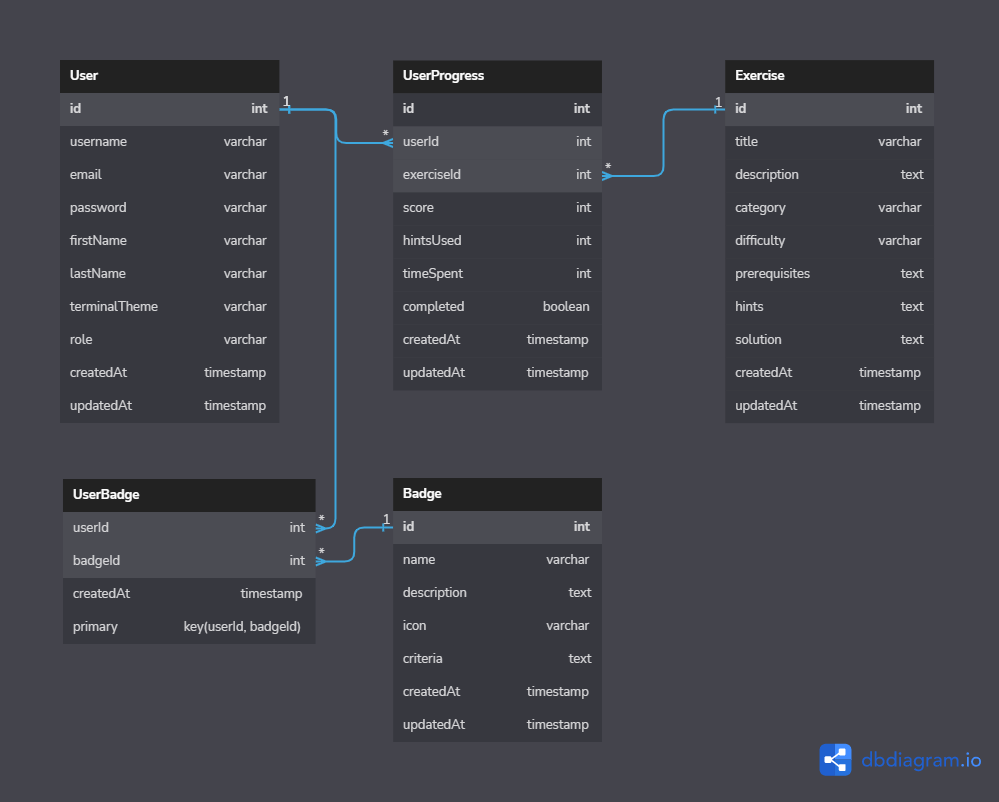
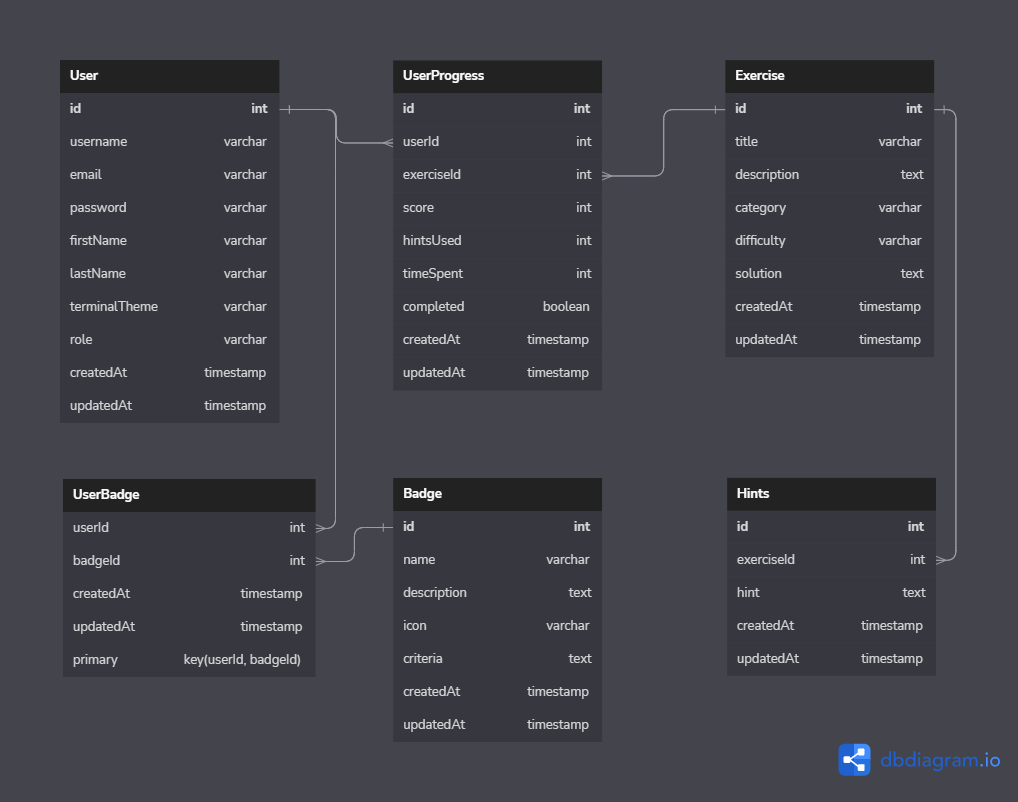
Added Hints relation and updated all documentation accordingly.

diff --git a/documentation/Components_And_Data_Models.md b/documentation/Components_And_Data_Models.md
@@ -30,8 +30,6 @@ Exercises are the interactive challenges that users complete to improve their co
 - `description`: A brief explanation of the exercise's purpose and objectives
 - `category`: The command-line skill category to which the exercise belongs (e.g., navigation, file management, scripting)
 - `difficulty`: The difficulty level of the exercise (e.g., beginner, intermediate, advanced)
-- `prerequisites`: A list of prerequisite exercises or concepts that the user should complete before attempting the exercise
-- `hints`: A list of hints or suggestions to help users if they get stuck on the exercise
 - `solution`: The correct command or sequence of commands to complete the exercise
 - `createdAt`: Timestamp indicating when the exercise was created
 - `updatedAt`: Timestamp indicating when the exercise was last updated
@@ -61,6 +59,16 @@ Badges are awarded to users upon completing specific tasks or reaching milestone
 - `criteria`: A list of conditions or milestones that must be met for the user to earn the badge
 - `createdAt`: Timestamp indicating when the badge was created
 - `updatedAt`: Timestamp indicating when the badge was last updated
+
+### 4.1.5 Hints
+
+Hints are suggestions to help users when they are stuck on an exercise. The Hint component will have the following attributes:
+
+- `id`: Unique identifier for the hint
+- `exerciseId`: Unique identifier of the associated exercise
+- `hint`: The text content of the hint
+- `createdAt`: Timestamp indicating when the hint was created
+- `updatedAt`: Timestamp indicating when the hint was last updated
 
 ### 4.2 Data Models and Relationships
 

diff --git a/documentation/Database_Schema.md b/documentation/Database_Schema.md
@@ -26,9 +26,15 @@ Table Exercise {
   description text
   category varchar
   difficulty varchar
-  prerequisites text
-  hints text
   solution text
+  createdAt timestamp
+  updatedAt timestamp
+}
+
+Table Hints {
+  id int [pk, increment]
+  exerciseId int [ref: > Exercise.id, not null]
+  hint text [not null]
   createdAt timestamp
   updatedAt timestamp
 }
@@ -59,6 +65,7 @@ Table UserBadge {
   userId int [ref: > User.id, not null]
   badgeId int [ref: > Badge.id, not null]
   createdAt timestamp
+  updatedAt timestamp
   primary key (userId, badgeId)
 }
 ```
@@ -85,9 +92,15 @@ CREATE TABLE "Exercise" (
   "description" text,
   "category" varchar,
   "difficulty" varchar,
-  "prerequisites" text,
-  "hints" text,
   "solution" text,
+  "createdAt" timestamp,
+  "updatedAt" timestamp
+);
+
+CREATE TABLE "Hints" (
+  "id" INT GENERATED BY DEFAULT AS IDENTITY PRIMARY KEY,
+  "exerciseId" int NOT NULL,
+  "hint" text NOT NULL,
   "createdAt" timestamp,
   "updatedAt" timestamp
 );
@@ -118,8 +131,11 @@ CREATE TABLE "UserBadge" (
   "userId" int NOT NULL,
   "badgeId" int NOT NULL,
   "createdAt" timestamp,
+  "updatedAt" timestamp,
   "primary" "key(userId, badgeId)"
 );
+
+ALTER TABLE "Hints" ADD FOREIGN KEY ("exerciseId") REFERENCES "Exercise" ("id");
 
 ALTER TABLE "UserProgress" ADD FOREIGN KEY ("userId") REFERENCES "User" ("id");
 
@@ -128,5 +144,6 @@ ALTER TABLE "UserProgress" ADD FOREIGN KEY ("exerciseId") REFERENCES "Exercise" 
 ALTER TABLE "UserBadge" ADD FOREIGN KEY ("userId") REFERENCES "User" ("id");
 
 ALTER TABLE "UserBadge" ADD FOREIGN KEY ("badgeId") REFERENCES "Badge" ("id");
+
 
 ```

diff --git a/README.md b/README.md
@@ -20,6 +20,7 @@
         2. [Exercises](./documentation/Components_And_Data_Models.md#412-exercises)  
         3. [User Progress](./documentation/Components_And_Data_Models.md#413-user-progress)  
         4. [Badges](./documentation/Components_And_Data_Models.md#414-badges)  
+        5. [Hints](./documentation/Components_And_Data_Models.md#415-hints)
     2. [Data Models and Relationships](./documentation/Components_And_Data_Models.md#42-data-models-and-relationships)  
 5. [Restful API Routes and WebSocket Events](./documentation/Restful_Routes_WebSocket_Events.md)  
     1. [User Routes](./documentation/Restful_Routes_WebSocket_Events.md#51-user-routes)  
